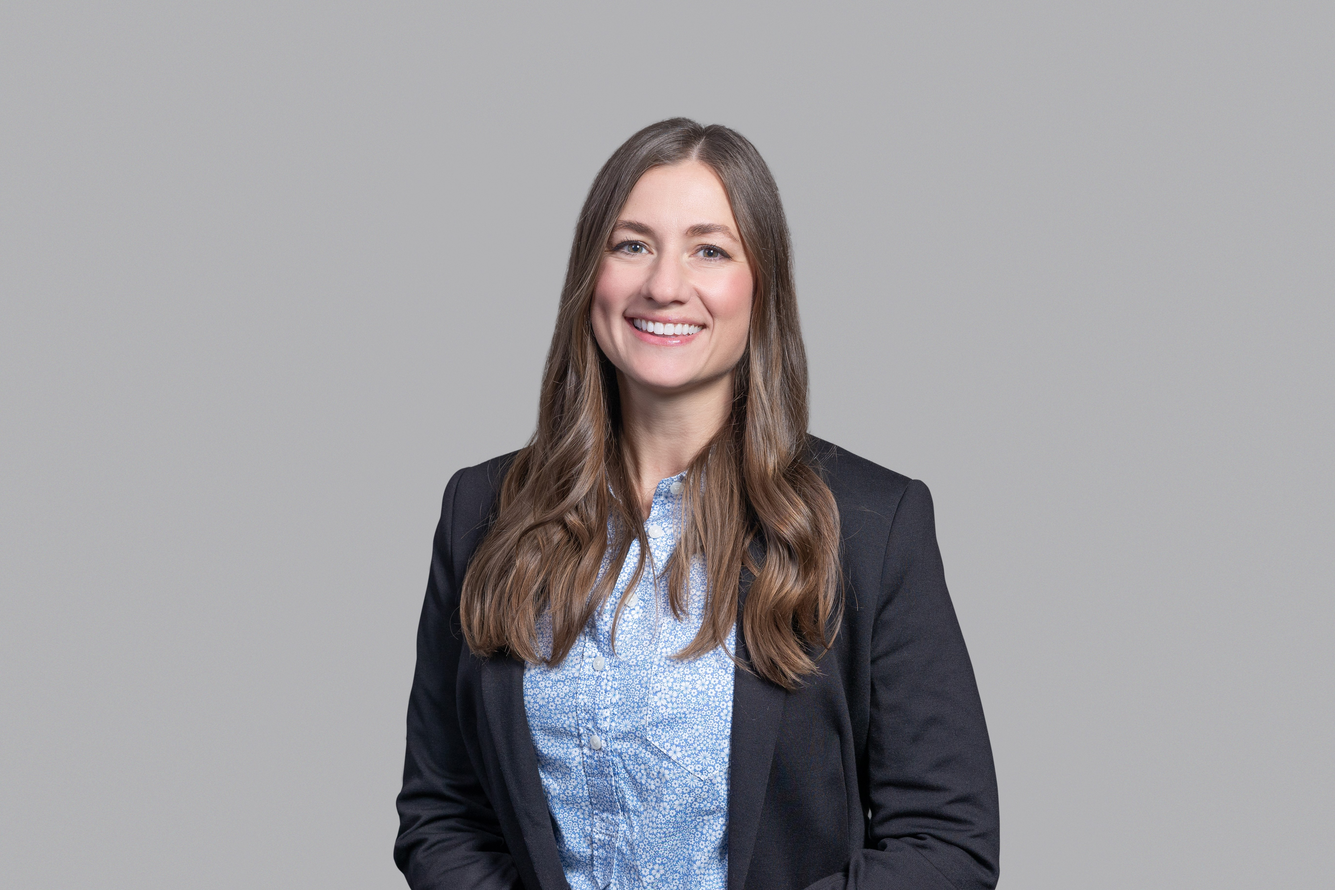
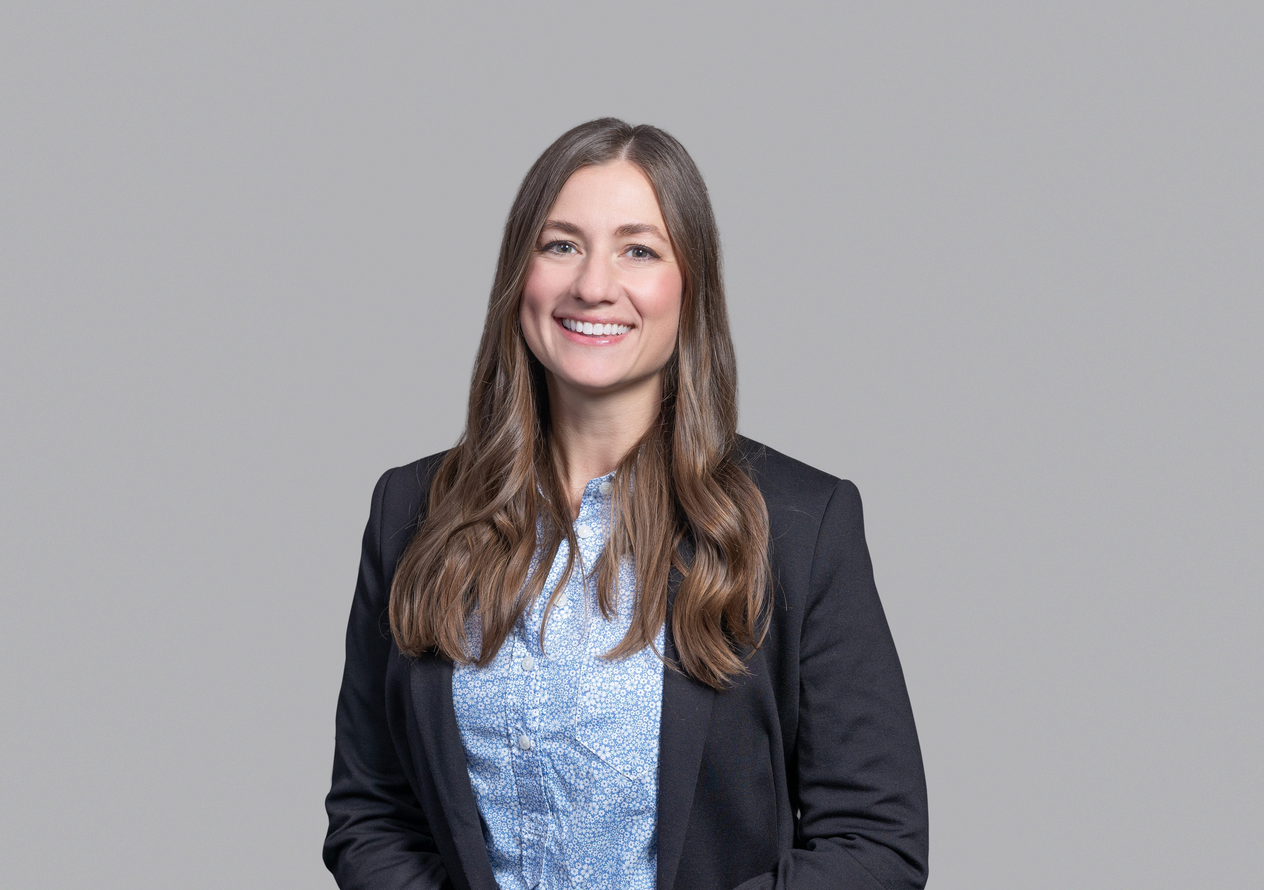
minor updates to board member styling of images

Changed region(s): [[0.2486, 0.125, 0.7769, 1.0]]

diff --git a/src/data/membersList.js b/src/data/membersList.js
@@ -10,14 +10,14 @@ export const members = [
     {
         id: 'josh-lutz',
         name: 'Josh Lutz',
-        title: 'Hero',
+        title: 'Dictator & Micro-Manager',
         bio: 'Josh is amazing and he is the best...',
         image: '/images/JoshLutz.jpg'
     },
     {
         id: 'andrea-lutz',
         name: 'Andrea Lutz',
-        title: 'Birthday Girl',
+        title: 'Janitor',
         bio: 'Andrea is ok...',
         image: '/images/Andrea.jpg'
     }

diff --git a/src/css/BoardMember.module.css b/src/css/BoardMember.module.css
@@ -19,7 +19,7 @@
 
 .boardMemberRow {
     align-items: center;
-    justify-content: center;
+    justify-content: space-around;
 }
 
 .boardBio {
@@ -31,12 +31,14 @@
 .boardMemberImgContainer {
     min-width: 250px;
     min-height: 250px;
+    margin-right: 30px;
 }
 
 img {
     width: 100%;
     height: auto;
     object-fit: cover;
+    border-radius: 8px;
 }
 
   
